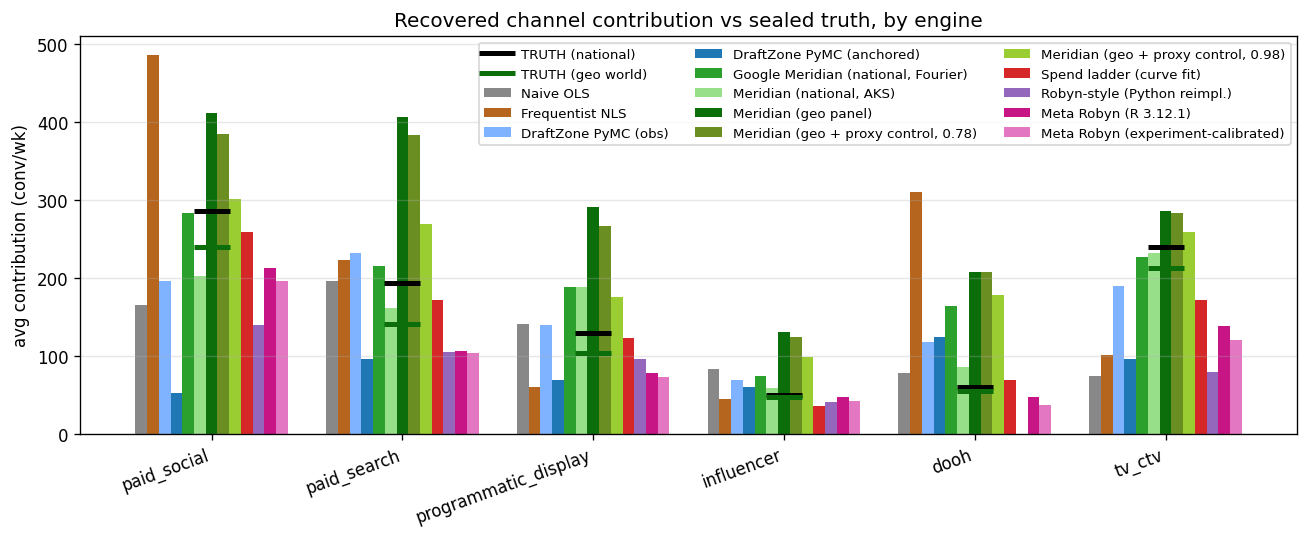
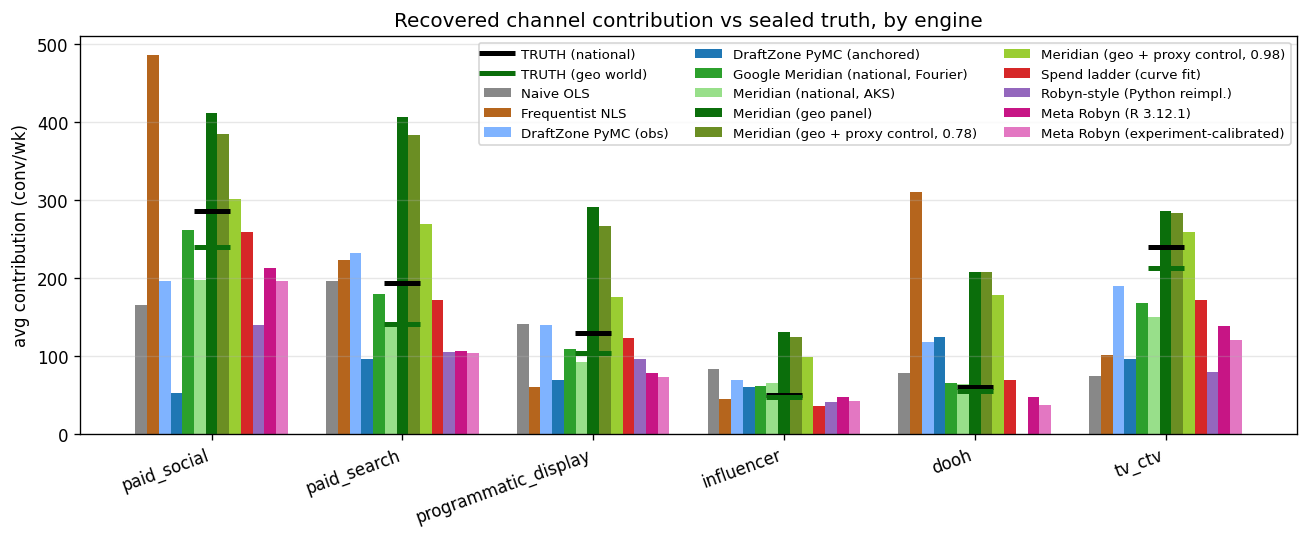
run(2025): checkpoint — meridian national

diff --git a/docs/engines/index.html b/docs/engines/index.html
@@ -45,10 +45,10 @@ key (a lower media total, because targeting concentrates spend into Hill saturat
 </div></header>
 <main class="wrap"><section>
 <div class="card"><img src="leaderboard.png" alt="engine comparison">
-<div class="tablewrap"><table><thead><tr><th>engine</th><th>world</th><th>type</th><th>R²</th><th>MAE/ch ↓</th><th>media bias</th><th>CIs hit</th></tr></thead><tbody><tr><td>Spend ladder (curve fit)</td><td>nat'l</td><td>Bayesian</td><td>—</td><td>25</td><td>-14%</td><td>6/6</td></tr><tr><td>Meridian (national, AKS)</td><td>nat'l</td><td>Bayesian</td><td>0.913</td><td>36</td><td>-3%</td><td>6/6</td></tr><tr><td>Google Meridian (national, Fourier)</td><td>nat'l</td><td>Bayesian</td><td>0.860</td><td>37</td><td>+20%</td><td>5/6</td></tr><tr><td>DraftZone PyMC (obs)</td><td>nat'l</td><td>Bayesian</td><td>0.823</td><td>44</td><td>-2%</td><td>6/6</td></tr><tr><td>Meta Robyn (R 3.12.1)</td><td>nat'l</td><td>point</td><td>0.856</td><td>55</td><td>-34%</td><td>—</td></tr><tr><td>Naive OLS</td><td>nat'l</td><td>point</td><td>0.649</td><td>59</td><td>-23%</td><td>—</td></tr><tr><td>Meta Robyn (experiment-calibrated)</td><td>nat'l</td><td>point</td><td>0.845</td><td>64</td><td>-40%</td><td>—</td></tr><tr><td>Meridian (geo + proxy control, 0.98)</td><td>geo</td><td>Bayesian</td><td>0.970</td><td>80</td><td>+60%</td><td>1/6</td></tr><tr><td>Robyn-style (Python reimpl.)</td><td>nat'l</td><td>point</td><td>0.844</td><td>83</td><td>-52%</td><td>—</td></tr><tr><td>DraftZone PyMC (anchored)</td><td>nat'l</td><td>Bayesian</td><td>0.799</td><td>101</td><td>-48%</td><td>5/6</td></tr><tr><td>Frequentist NLS</td><td>nat'l</td><td>point</td><td>0.860</td><td>115</td><td>+28%</td><td>—</td></tr><tr><td>Meridian (geo + proxy control, 0.78)</td><td>geo</td><td>Bayesian</td><td>0.939</td><td>142</td><td>+106%</td><td>0/6</td></tr><tr><td>Meridian (geo panel)</td><td>geo</td><td>Bayesian</td><td>0.931</td><td>156</td><td>+117%</td><td>0/6</td></tr></tbody></table></div>
+<div class="tablewrap"><table><thead><tr><th>engine</th><th>world</th><th>type</th><th>R²</th><th>MAE/ch ↓</th><th>media bias</th><th>CIs hit</th></tr></thead><tbody><tr><td>Google Meridian (national, Fourier)</td><td>nat'l</td><td>Bayesian</td><td>0.821</td><td>24</td><td>-12%</td><td>6/6</td></tr><tr><td>Spend ladder (curve fit)</td><td>nat'l</td><td>Bayesian</td><td>—</td><td>25</td><td>-14%</td><td>6/6</td></tr><tr><td>DraftZone PyMC (obs)</td><td>nat'l</td><td>Bayesian</td><td>0.823</td><td>44</td><td>-2%</td><td>6/6</td></tr><tr><td>Meridian (national, AKS)</td><td>nat'l</td><td>Bayesian</td><td>0.899</td><td>47</td><td>-26%</td><td>6/6</td></tr><tr><td>Meta Robyn (R 3.12.1)</td><td>nat'l</td><td>point</td><td>0.856</td><td>55</td><td>-34%</td><td>—</td></tr><tr><td>Naive OLS</td><td>nat'l</td><td>point</td><td>0.649</td><td>59</td><td>-23%</td><td>—</td></tr><tr><td>Meta Robyn (experiment-calibrated)</td><td>nat'l</td><td>point</td><td>0.845</td><td>64</td><td>-40%</td><td>—</td></tr><tr><td>Meridian (geo + proxy control, 0.98)</td><td>geo</td><td>Bayesian</td><td>0.970</td><td>80</td><td>+60%</td><td>1/6</td></tr><tr><td>Robyn-style (Python reimpl.)</td><td>nat'l</td><td>point</td><td>0.844</td><td>83</td><td>-52%</td><td>—</td></tr><tr><td>DraftZone PyMC (anchored)</td><td>nat'l</td><td>Bayesian</td><td>0.799</td><td>101</td><td>-48%</td><td>5/6</td></tr><tr><td>Frequentist NLS</td><td>nat'l</td><td>point</td><td>0.860</td><td>115</td><td>+28%</td><td>—</td></tr><tr><td>Meridian (geo + proxy control, 0.78)</td><td>geo</td><td>Bayesian</td><td>0.939</td><td>142</td><td>+106%</td><td>0/6</td></tr><tr><td>Meridian (geo panel)</td><td>geo</td><td>Bayesian</td><td>0.931</td><td>156</td><td>+117%</td><td>0/6</td></tr></tbody></table></div>
 
 <div class="callout"><b>Meta Robyn — the method, two implementations.</b> the <b>real Meta Robyn</b> R package (MAE 55, bias -34%, DECOMP.RSSD 0.012) and our Python reimplementation of its method (MAE 83, bias -52%). Robyn is frequentist: ridge regression on a Prophet trend/season decomposition, with <b>Nevergrad</b> searching adstock/Hill hyperparameters against two objectives — fit (NRMSE) and <b>DECOMP.RSSD</b>, its signature regulariser pulling each channel's <i>effect</i> share toward its <i>spend</i> share. The real Robyn shows a telling split-vs-level pattern: its channel <i>shares</i> are excellent (DECOMP.RSSD 0.012 — effect shares hug spend shares, which here also match truth), but it under-credits the media <i>level</i> (bias -34%) because Prophet's flexible trend soaks up the seasonal-confounded variance into the baseline. Our leaner reimplementation (fixed linear trend + Fourier season, not Prophet) leaves more for media and lands closer (-52% bias, MAE 83) — same method, different baseline flexibility, different answer. <b>Experiment calibration</b> (Robyn's <code>calibration_input</code>, anchored here to the spend-ladder readout — the project's confound-immune signal) targets exactly that level gap: it moves Robyn to MAE 64, bias -40% (lifting the media level vs -34% uncalibrated) — the one lever that fixes the level honestly rather than by hand-picking a Pareto model. DECOMP.RSSD is itself a <b>prior</b>: here channel ROIs are similar so share-matching helps the split, but on a mix with one very high- or low-ROI channel it would mislead. And like every engine here Robyn has no experiment, so it cannot escape the confound better than its baseline controls allow — the throughline of the whole leaderboard. (Run at Robyn's full converged config, 1500×3 iterations×trials, with the balanced-knee model auto-selected; a practitioner picking a higher-media model off the Pareto front by hand could lift the level further.)</div>
-<div class="callout"><b>Meridian across the control-quality spectrum.</b> Same scale-corrected ROI prior: national + Fourier controls (MAE 37); national + Meridian's own AKS knots, no Fourier (MAE 36); the hardened multi-geo panel (MAE 156); that panel + an imperfect demand proxy (MAE 142); + a near-perfect demand proxy (MAE 80). The geo panel is Meridian's home turf — spend varies across geos within a week, cross-sectional identification the national series lacks — but this panel is <b>hardened</b>: a latent geo×time demand factor both lifts non-media conversions and draws targeted spend (realized corr(spend, demand) +0.78), the geo analogue of the spend↔season confound, graded against the geo world's own answer key. With <b>no control</b> for it, geo Meridian blows up to <b>MAE 156</b> (media bias +117%, 0/6 CIs) — high R² and confidently wrong on every channel, crediting the demand-driven conversions to the spend that chases them. An <b>imperfect</b> demand-proxy control (fidelity 0.79) barely helps — <b>MAE 142</b>, bias +106%, only ~9% of the error bought back: the confounder's pull on conversions rivals the entire media signal, so what the proxy MISSES still tracks spend and keeps over-crediting. Even a <b>near-perfect</b> proxy (fidelity 0.98) only claws back about half — <b>MAE 80</b>, bias still +60%, 1/6 CIs (~48% of the error bought back) — because the residual it misses still tracks the targeted spend. Control quality sets the ceiling, but a realistic proxy lives down near the useless end, and even the unrealistic one doesn't fully repair it. National AKS stays best-calibrated (MAE 36, bias -3%, 6/6 CIs). The throughline: more data (geo cross-section) and better controls help, but you can never tell from fit alone whether your proxy was good enough — only a <b>randomized experiment</b> breaks a confounder you can't see. That is why this project triangulates MMM with geo tests instead of trusting any single fit.</div>
+<div class="callout"><b>Meridian across the control-quality spectrum.</b> Same scale-corrected ROI prior: national + Fourier controls (MAE 24); national + Meridian's own AKS knots, no Fourier (MAE 47); the hardened multi-geo panel (MAE 156); that panel + an imperfect demand proxy (MAE 142); + a near-perfect demand proxy (MAE 80). The geo panel is Meridian's home turf — spend varies across geos within a week, cross-sectional identification the national series lacks — but this panel is <b>hardened</b>: a latent geo×time demand factor both lifts non-media conversions and draws targeted spend (realized corr(spend, demand) +0.78), the geo analogue of the spend↔season confound, graded against the geo world's own answer key. With <b>no control</b> for it, geo Meridian blows up to <b>MAE 156</b> (media bias +117%, 0/6 CIs) — high R² and confidently wrong on every channel, crediting the demand-driven conversions to the spend that chases them. An <b>imperfect</b> demand-proxy control (fidelity 0.79) barely helps — <b>MAE 142</b>, bias +106%, only ~9% of the error bought back: the confounder's pull on conversions rivals the entire media signal, so what the proxy MISSES still tracks spend and keeps over-crediting. Even a <b>near-perfect</b> proxy (fidelity 0.98) only claws back about half — <b>MAE 80</b>, bias still +60%, 1/6 CIs (~48% of the error bought back) — because the residual it misses still tracks the targeted spend. Control quality sets the ceiling, but a realistic proxy lives down near the useless end, and even the unrealistic one doesn't fully repair it. National AKS stays best-calibrated (MAE 47, bias -26%, 6/6 CIs). The throughline: more data (geo cross-section) and better controls help, but you can never tell from fit alone whether your proxy was good enough — only a <b>randomized experiment</b> breaks a confounder you can't see. That is why this project triangulates MMM with geo tests instead of trusting any single fit.</div>
 <div class="callout"><b>The spend ladder is the cure for the saturated channels (MAE 25/ch, 6/6 CIs).</b> Instead of feeding ONE lift into a prior, it runs several cells per channel at different spend levels — including cells <i>below</i> current spend — and fits the response curve through them. The bracketing turns the read into an interpolation at the operating point, so it right-sizes the saturated channels a single secant mis-credits (paid_social, paid_search). It is also the most expensive option. <a href="../ladder/index.html">See the curves and the honest cost/time analysis →</a></div>
 
 <p class="small">All engines share the same Fourier-seasonality control set and public data — no